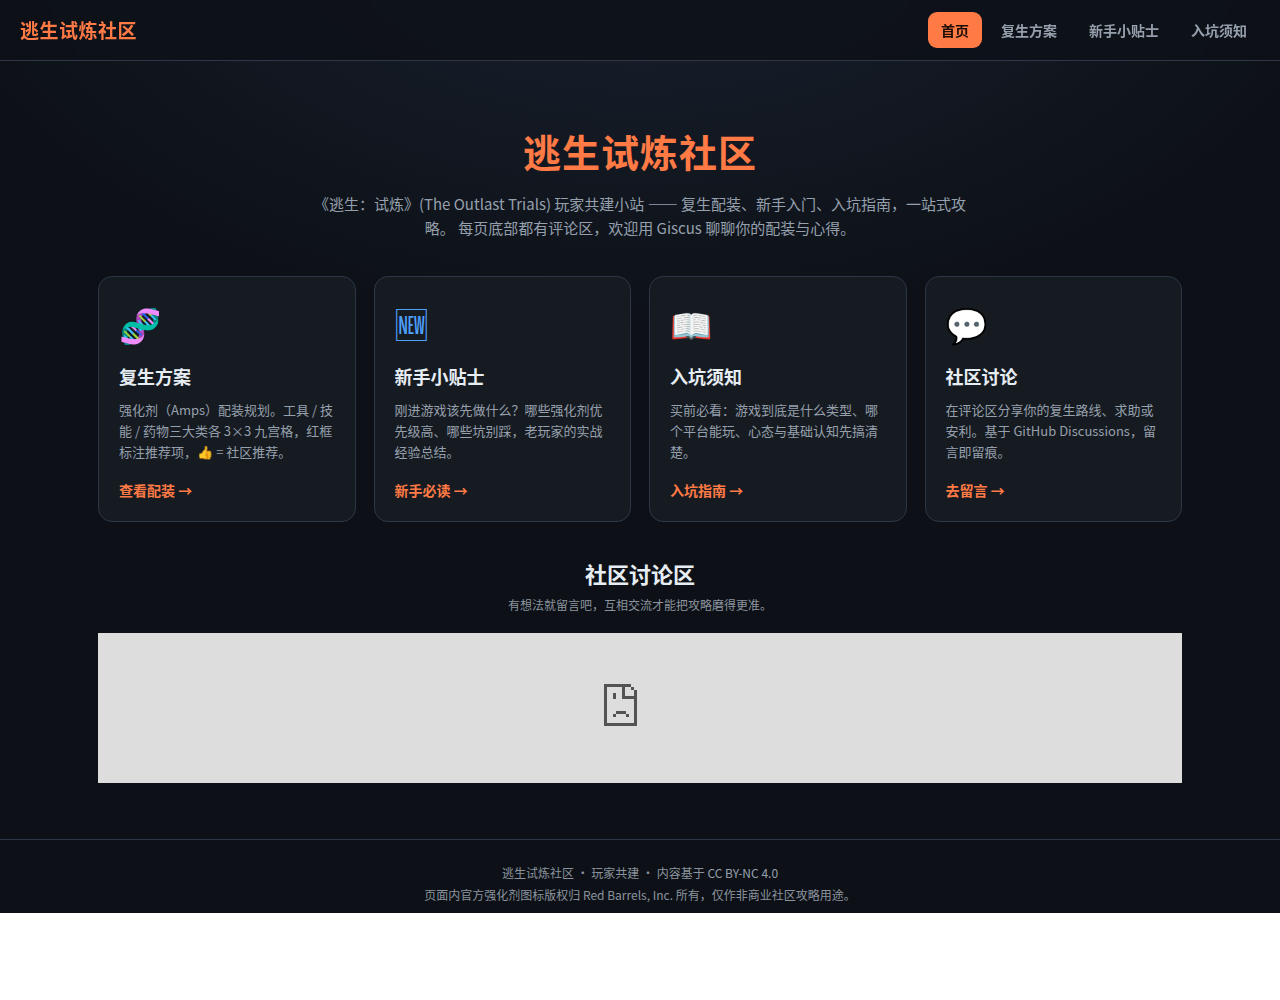
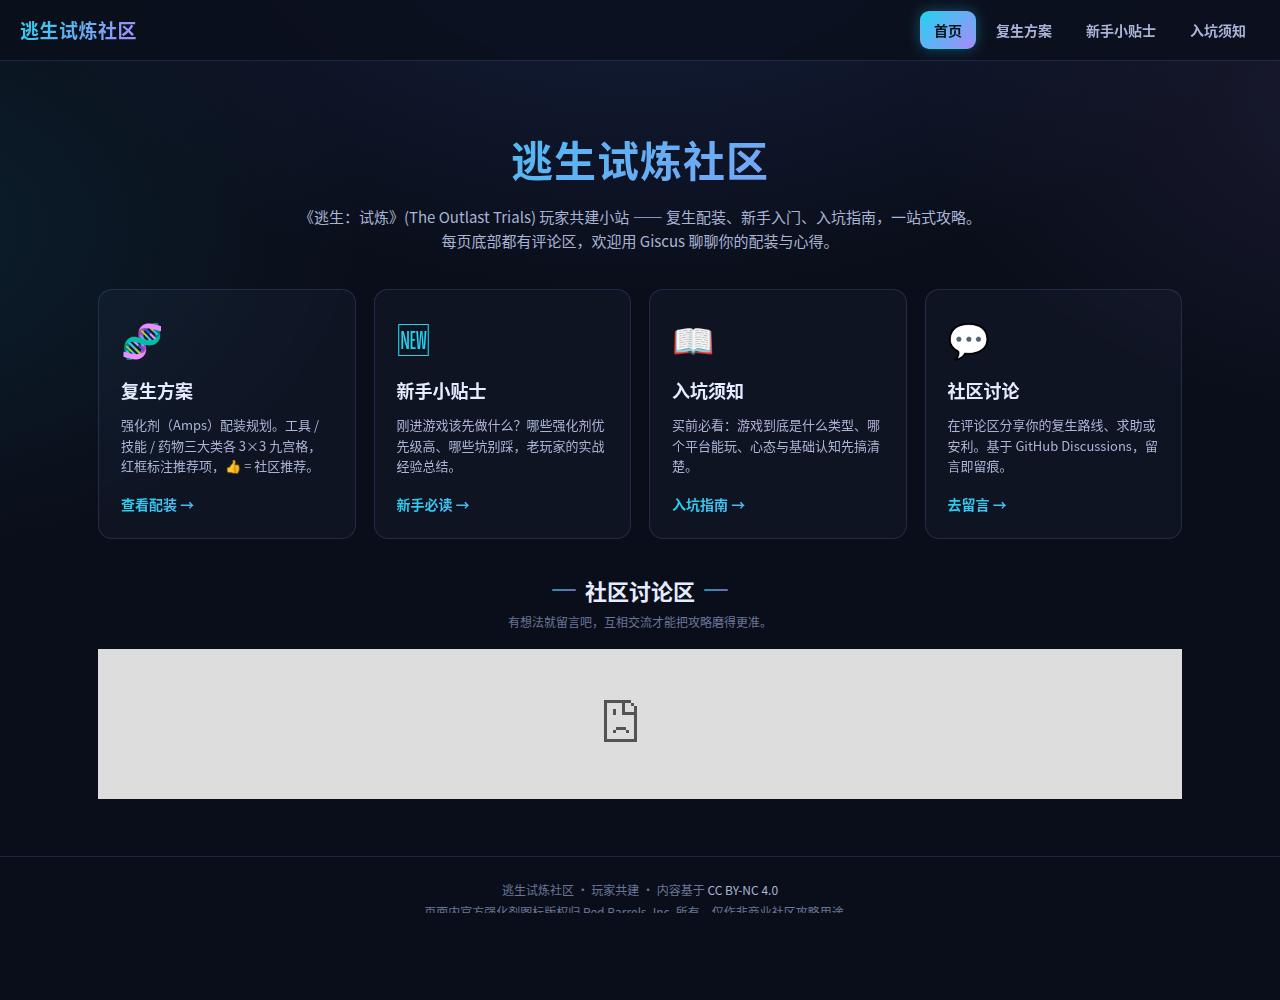
feat: 全面玻璃拟态化 + README 贴链接 + 每页增加 GitHub 编辑入口
- 重写 style.css，参照 dl-viz-lab 的玻璃拟态/青紫渐变设计：
  半透明面板、背景模糊、悬停辉光、渐变标题与按钮
- README 顶部直接贴上网址 https://lokeily.github.io/outlast-trials-community/
- 四个页面页脚统一新增「✏️ 在 GitHub 上编辑此页」深链
- 更新 preview.png 为新风格首页截图

diff --git a/assets/css/style.css b/assets/css/style.css
@@ -1,17 +1,18 @@
-/* ===== 逃生试炼社区 · 共享样式 ===== */
+/* ===== 逃生试炼社区 · 共享样式（玻璃拟态 / 青紫渐变） ===== */
 :root{
-  --bg:#0d1117;
-  --bg-soft:#161b22;
-  --bg-card:#1a2230;
-  --border:#2d3748;
-  --border-soft:#252d3a;
-  --text:#e6edf3;
-  --text-dim:#96a0ad;
-  --text-mute:#8b949e;
-  --accent:#ff7a45;      /* 主橙 */
-  --accent-2:#4ea1ff;    /* 蓝 */
+  --bg:#0a0e1a;
+  --panel:rgba(148,163,255,.045);      /* 玻璃面板底 */
+  --panel-2:rgba(15,23,42,.55);
+  --border:rgba(148,163,255,.16);
+  --border-soft:rgba(148,163,255,.10);
+  --text:#e6ecff;
+  --text-dim:#aab4d4;
+  --text-mute:#6b7699;
+  --cyan:#22d3ee;
+  --violet:#a78bfa;
+  --accent-grad:linear-gradient(135deg,var(--cyan),var(--violet));
+  --red:#ff3b30;                        /* 选中等高亮（游戏化） */
   --green:#3fb950;
-  --red:#ff3b30;
   --gold:#f0b429;
   --radius:14px;
   --maxw:1120px;
@@ -19,81 +20,95 @@
 }
 
 *{box-sizing:border-box;margin:0;padding:0}
-html{-webkit-text-size-adjust:100%}
+html{-webkit-text-size-adjust:100%;scroll-behavior:smooth}
 body{
-  background:var(--bg);
-  background:radial-gradient(1200px 700px at 50% -10%,#1a2230 0%,#0d1117 60%);
-  background-attachment:fixed;
+  min-height:100vh;
   color:var(--text);
-  font-family:"Noto Sans CJK SC","PingFang SC","Microsoft YaHei",sans-serif;
+  font-family:"Noto Sans CJK SC","PingFang SC","Microsoft YaHei",-apple-system,BlinkMacSystemFont,"Segoe UI",Roboto,sans-serif;
   line-height:1.6;
+  background:
+    radial-gradient(1100px 680px at 50% -12%,#16213f 0%,rgba(22,33,63,0) 60%),
+    radial-gradient(900px 600px at 110% 10%,rgba(167,139,250,.10) 0%,rgba(167,139,250,0) 55%),
+    radial-gradient(900px 600px at -10% 25%,rgba(34,211,238,.09) 0%,rgba(34,211,238,0) 55%),
+    var(--bg);
+  background-attachment:fixed;
   padding-bottom:40px;
 }
-a{color:var(--accent-2);text-decoration:none}
-a:hover{text-decoration:underline}
+a{color:var(--cyan);text-decoration:none;transition:color .15s}
+a:hover{text-decoration:none;color:#7fe9f5}
 img{max-width:100%}
+::selection{background:rgba(34,211,238,.3);color:#fff}
 
-/* ===== 顶部导航 ===== */
+/* ===== 顶部导航（玻璃栏） ===== */
 .site-nav{
   position:sticky;top:0;z-index:50;
   display:flex;align-items:center;justify-content:space-between;flex-wrap:wrap;gap:10px;
-  padding:12px 20px;
-  background:rgba(13,17,23,.85);
-  backdrop-filter:blur(10px);
+  padding:11px 20px;
+  background:rgba(10,14,26,.72);
+  backdrop-filter:blur(12px);-webkit-backdrop-filter:blur(12px);
   border-bottom:1px solid var(--border);
 }
 .brand{
-  font-weight:800;font-size:19px;color:var(--accent);
-  letter-spacing:.5px;white-space:nowrap;
+  font-weight:800;font-size:19px;letter-spacing:.5px;white-space:nowrap;
+  background:var(--accent-grad);-webkit-background-clip:text;background-clip:text;color:transparent;
 }
-.brand:hover{text-decoration:none;filter:brightness(1.1)}
+.brand:hover{filter:brightness(1.12)}
 .nav-links{display:flex;flex-wrap:wrap;gap:6px}
 .nav-links a{
   color:var(--text-dim);font-size:14px;font-weight:600;
-  padding:7px 13px;border-radius:9px;transition:.15s;
+  padding:7px 13px;border-radius:9px;border:1px solid transparent;transition:.15s;
 }
-.nav-links a:hover{background:var(--bg-soft);color:var(--text);text-decoration:none}
-.nav-links a.active{background:var(--accent);color:#1a0d05}
+.nav-links a:hover{color:var(--text);background:var(--panel);border-color:var(--border-soft)}
+.nav-links a.active{color:#06121a;background:var(--accent-grad);border-color:transparent;box-shadow:0 0 14px rgba(34,211,238,.35)}
 
-/* ===== 通用容器 ===== */
+/* ===== 容器 / 标题 ===== */
 .container{max-width:var(--maxw);margin:0 auto;padding:0 18px}
- main{padding:26px 0}
+main{padding:30px 0}
 section{margin-top:30px}
 
-/* ===== 标题 ===== */
-.title{text-align:center;font-weight:800;font-size:30px;color:var(--accent);letter-spacing:1px}
+.title{
+  text-align:center;font-weight:800;font-size:30px;letter-spacing:1px;
+  background:var(--accent-grad);-webkit-background-clip:text;background-clip:text;color:transparent;
+}
 .sub{text-align:center;font-size:13px;color:var(--text-mute);margin-top:6px}
-.divider{height:2px;background:var(--border);margin:18px auto;max-width:var(--maxw)}
-.sectitle{text-align:center;font-weight:800;font-size:22px;margin:8px 0 4px}
+.divider{height:1px;background:linear-gradient(90deg,transparent,var(--border),transparent);margin:18px auto;max-width:var(--maxw)}
+.sectitle{
+  display:flex;align-items:center;justify-content:center;gap:9px;
+  font-weight:800;font-size:22px;margin:8px 0 4px;color:var(--text);
+}
+.sectitle::before,.sectitle::after{content:"";width:24px;height:2px;border-radius:2px;background:var(--accent-grad);opacity:.7}
 .secsub{text-align:center;font-size:12px;color:var(--text-mute);margin-bottom:18px}
 
 /* ===== 社区首页 hero / 卡片 ===== */
-.hero{text-align:center;padding:30px 18px 10px}
-.hero h1{font-size:38px;font-weight:800;color:var(--accent);letter-spacing:1px}
-.hero p{color:var(--text-dim);font-size:15px;margin-top:10px;max-width:680px;margin-left:auto;margin-right:auto}
+.hero{text-align:center;padding:34px 18px 8px}
+.hero h1{
+  font-size:42px;font-weight:800;letter-spacing:1px;
+  background:var(--accent-grad);-webkit-background-clip:text;background-clip:text;color:transparent;
+}
+.hero p{color:var(--text-dim);font-size:15px;margin-top:12px;max-width:700px;margin-left:auto;margin-right:auto}
 .cards{
-  display:grid;gap:18px;margin-top:26px;
+  display:grid;gap:18px;margin-top:28px;
   grid-template-columns:repeat(auto-fit,minmax(240px,1fr));
 }
 .card{
   display:flex;flex-direction:column;gap:10px;
-  background:var(--bg-soft);border:1px solid var(--border);
-  border-radius:var(--radius);padding:20px;transition:.18s;
+  background:var(--panel);border:1px solid var(--border);border-radius:var(--radius);
+  padding:22px;transition:.2s;backdrop-filter:blur(6px);-webkit-backdrop-filter:blur(6px);
 }
-.card:hover{transform:translateY(-4px);border-color:var(--accent);box-shadow:0 10px 30px rgba(0,0,0,.35)}
+.card:hover{transform:translateY(-5px);border-color:rgba(34,211,238,.5);box-shadow:0 14px 36px rgba(34,211,238,.14)}
 .card .ico{font-size:34px}
 .card h3{font-size:18px;color:var(--text)}
 .card p{font-size:13px;color:var(--text-dim);flex:1}
-.card .go{margin-top:6px;font-weight:700;color:var(--accent);font-size:14px}
+.card .go{margin-top:6px;font-weight:700;font-size:14px;background:var(--accent-grad);-webkit-background-clip:text;background-clip:text;color:transparent}
 .card:hover .go{text-decoration:underline}
 
 /* ===== 复生方案：总览 ===== */
 .ovcols{display:flex;gap:24px;justify-content:center;align-items:flex-start;flex-wrap:wrap}
-.col{width:340px;max-width:100%;background:var(--bg-soft);border:1px solid var(--border);border-radius:var(--radius);padding:14px}
-.cat{font-weight:700;font-size:14px;color:#cdd6e0;text-align:center;margin-bottom:8px}
+.col{width:340px;max-width:100%;background:var(--panel);border:1px solid var(--border);border-radius:var(--radius);padding:14px;backdrop-filter:blur(6px);-webkit-backdrop-filter:blur(6px)}
+.cat{font-weight:700;font-size:14px;color:var(--text-dim);text-align:center;margin-bottom:8px;letter-spacing:.05em}
 .ribbon{width:100%;height:auto;display:block;border-radius:8px;margin-bottom:6px}
-.item{position:relative;display:flex;align-items:center;gap:14px;margin-top:12px;background:var(--bg-card);border:1px solid var(--accent-2);border-radius:11px;padding:12px 14px;min-height:84px}
-.item.ok{background:#233c2c;border-color:var(--green)}
+.item{position:relative;display:flex;align-items:center;gap:14px;margin-top:12px;background:var(--panel-2);border:1px solid var(--cyan);border-radius:11px;padding:12px 14px;min-height:84px}
+.item.ok{background:rgba(63,185,80,.10);border-color:var(--green)}
 .ic{width:56px;height:56px;flex:0 0 56px;object-fit:contain}
 .meta{display:flex;flex-direction:column;justify-content:center}
 .iname{font-weight:700;font-size:21px;color:var(--text)}
@@ -101,64 +116,65 @@ section{margin-top:30px}
 .isub{font-size:12px;color:var(--text-dim);margin-top:3px}
 .badge{position:absolute;top:8px;right:8px;font-size:11px;font-weight:700;padding:2px 9px;border-radius:7px}
 .badge.ok{background:var(--green);color:#06210d}
-.badge.pick{background:var(--accent-2);color:#04223f}
+.badge.pick{background:var(--cyan);color:#06121a}
 .thumb{position:absolute;bottom:-2px;right:-2px;font-size:20px;z-index:5;filter:drop-shadow(0 1px 3px rgba(0,0,0,.6));transform:rotate(-15deg)}
 
 /* ===== 复生方案：九宫格 ===== */
 .boards{display:flex;gap:22px;justify-content:center;align-items:flex-start;flex-wrap:wrap}
-.gridwrap{width:348px;max-width:100%;background:var(--bg-soft);border:1px solid var(--border);border-radius:var(--radius);padding:14px}
+.gridwrap{width:348px;max-width:100%;background:var(--panel);border:1px solid var(--border);border-radius:var(--radius);padding:14px;backdrop-filter:blur(6px);-webkit-backdrop-filter:blur(6px)}
 .ghead{display:flex;align-items:center;gap:10px;margin-bottom:12px}
 .ghead .ribbon{width:150px}
-.ghead span{font-weight:700;font-size:15px;color:#cdd6e0}
+.ghead span{font-weight:700;font-size:15px;color:var(--text-dim)}
 .grid{display:grid;grid-template-columns:repeat(3,1fr);gap:9px}
-.cell{position:relative;background:#11161d;border:1px solid #2b3442;border-radius:10px;padding:9px 4px 7px;display:flex;flex-direction:column;align-items:center}
+.cell{position:relative;background:rgba(8,12,24,.6);border:1px solid var(--border-soft);border-radius:10px;padding:9px 4px 7px;display:flex;flex-direction:column;align-items:center;transition:.15s}
+.cell:hover{border-color:rgba(34,211,238,.4)}
 .cell .ic{width:58px;height:58px;object-fit:contain}
 .cell .cn{font-size:13px;font-weight:700;color:#dfe6ee;margin-top:5px;text-align:center}
 .cell .en{font-size:9.5px;color:#7c8694;margin-top:1px;text-align:center}
-.cell.pick{border:3px solid var(--red);box-shadow:0 0 0 2px rgba(255,59,48,.35),0 0 14px rgba(255,59,48,.45);background:#241317}
+.cell.pick{border:2px solid var(--red);box-shadow:0 0 0 2px rgba(255,59,48,.35),0 0 16px rgba(255,59,48,.45);background:rgba(255,59,48,.10)}
 .cell.pick .cn{color:#ff6b60}
 .tag{position:absolute;top:-9px;left:-9px;background:var(--red);color:#fff;font-size:10px;font-weight:700;padding:2px 7px;border-radius:7px;white-space:nowrap}
 
 /* ===== 说明卡片 / 小贴士 ===== */
 .anns{max-width:1100px;margin:26px auto 0;display:grid;grid-template-columns:repeat(3,1fr);gap:16px}
-.ncard{background:var(--bg-soft);border:1px solid var(--border);border-radius:12px;padding:14px 16px}
+.ncard{background:var(--panel);border:1px solid var(--border);border-radius:12px;padding:14px 16px;backdrop-filter:blur(6px);-webkit-backdrop-filter:blur(6px)}
 .ntitle{font-weight:700;font-size:15px;margin-bottom:8px;color:var(--text)}
 .nlist{list-style:none}
-.nlist li{font-size:12.5px;color:#c3ccd6;line-height:1.6;margin-bottom:7px}
+.nlist li{font-size:12.5px;color:var(--text-dim);line-height:1.6;margin-bottom:7px}
 .nlist b{color:var(--text)}
-.tips{max-width:1100px;margin:28px auto 0;background:var(--bg-soft);border:1px solid var(--border);border-radius:var(--radius);padding:16px 20px;border-top:3px solid var(--gold)}
+.tips{max-width:1100px;margin:28px auto 0;background:var(--panel);border:1px solid var(--border);border-radius:var(--radius);padding:16px 20px;border-top:3px solid var(--gold);backdrop-filter:blur(6px);-webkit-backdrop-filter:blur(6px)}
 .tipstitle{font-weight:700;font-size:17px;color:var(--gold);text-align:center;margin-bottom:14px}
 .tipgrid{display:grid;grid-template-columns:repeat(2,1fr);gap:10px}
-.tip{background:#12181f;border:1px solid var(--border-soft);border-radius:10px;padding:10px 12px;font-size:12.5px;color:#b8c4d0;line-height:1.55;display:flex;align-items:flex-start;gap:8px}
+.tip{background:var(--panel-2);border:1px solid var(--border-soft);border-radius:10px;padding:10px 12px;font-size:12.5px;color:var(--text-dim);line-height:1.55;display:flex;align-items:flex-start;gap:8px}
 .tip .dot{color:var(--gold);font-weight:800;line-height:1.4}
 
-/* ===== 通用文章页（新手/入坑） ===== */
+/* ===== 通用文章页（新手 / 入坑） ===== */
 .article{max-width:820px;margin:0 auto}
-.article h2{font-size:20px;color:var(--accent);margin:24px 0 10px;border-left:4px solid var(--accent);padding-left:10px}
+.article h2{font-size:20px;color:var(--cyan);margin:24px 0 10px;border-left:4px solid var(--cyan);padding-left:10px}
 .article h3{font-size:16px;color:var(--text);margin:18px 0 6px}
-.article p,.article li{font-size:14px;color:#c3ccd6}
+.article p,.article li{font-size:14px;color:var(--text-dim)}
 .article ul,.article ol{padding-left:22px;margin:8px 0}
 .article li{margin-bottom:7px}
-.article .lead{font-size:15px;color:var(--text-dim);background:var(--bg-soft);border:1px solid var(--border);border-radius:12px;padding:14px 16px;margin:14px 0}
-.callout{border-left:4px solid var(--gold);background:#1c1810;border-radius:0 10px 10px 0;padding:12px 16px;margin:14px 0;font-size:13.5px;color:#e8d9b5}
-.callout.info{border-color:var(--accent-2);background:#0f1a26;color:#cfe3ff}
+.article .lead{font-size:15px;color:var(--text-dim);background:var(--panel);border:1px solid var(--border);border-radius:12px;padding:14px 16px;margin:14px 0;backdrop-filter:blur(6px);-webkit-backdrop-filter:blur(6px)}
+.callout{border-left:4px solid var(--gold);background:rgba(240,180,41,.08);border-radius:0 10px 10px 0;padding:12px 16px;margin:14px 0;font-size:13.5px;color:#e8d9b5}
+.callout.info{border-color:var(--cyan);background:rgba(34,211,238,.07);color:#cfeef5}
 
-/* ===== Giscus / 页脚 ===== */
+/* ===== Giscus / 页脚 / 编辑链接 ===== */
 #giscus-comments{margin-top:34px;min-height:120px}
-.site-foot{margin-top:50px;border-top:1px solid var(--border);padding:22px 18px;text-align:center;color:var(--text-mute);font-size:12px;line-height:1.8}
+.site-foot{margin-top:50px;border-top:1px solid var(--border);padding:22px 18px;text-align:center;color:var(--text-mute);font-size:12px;line-height:1.9}
 .site-foot a{color:var(--text-dim)}
-
-/* ===== 复生方案页专用 ===== */
-.contrib{max-width:1100px;margin:0 auto 16px;text-align:center;font-size:13px;color:var(--text-dim);background:var(--bg-soft);border:1px solid var(--border);border-radius:10px;padding:10px 14px}
+.edit-link{display:inline-flex;align-items:center;gap:5px;margin-top:6px;font-size:12px;color:var(--text-dim);border:1px solid var(--border);border-radius:8px;padding:4px 10px;transition:.15s}
+.edit-link:hover{color:var(--cyan);border-color:rgba(34,211,238,.5);background:var(--panel)}
+.contrib{max-width:1100px;margin:0 auto 16px;text-align:center;font-size:13px;color:var(--text-dim);background:var(--panel);border:1px solid var(--border);border-radius:10px;padding:10px 14px;backdrop-filter:blur(6px);-webkit-backdrop-filter:blur(6px)}
 .contrib a{font-weight:700}
 .legend{max-width:1100px;margin:18px auto 0;text-align:center;font-size:13px;color:var(--text-dim)}
-.legend b{color:var(--accent)}
+.legend b{background:var(--accent-grad);-webkit-background-clip:text;background-clip:text;color:transparent}
 
 /* ===== 响应式 ===== */
 @media (max-width:900px){
   .anns{grid-template-columns:1fr}
   .tipgrid{grid-template-columns:1fr}
-  .hero h1{font-size:30px}
+  .hero h1{font-size:32px}
 }
 @media (max-width:640px){
   body{padding-bottom:24px}
@@ -167,7 +183,7 @@ section{margin-top:30px}
   .nav-links{justify-content:center;width:100%}
   .nav-links a{padding:6px 10px;font-size:13px}
   .title{font-size:24px}
-  .hero h1{font-size:26px}
+  .hero h1{font-size:27px}
   .col,.gridwrap{width:100%}
   .grid{gap:6px}
   .cell .ic{width:46px;height:46px}

diff --git a/getting-started.html b/getting-started.html
@@ -90,6 +90,7 @@
 <footer class="site-foot">
   <p>逃生试炼社区 · 玩家共建 · 内容基于 <a href="LICENSE">CC BY-NC 4.0</a></p>
   <p>页面内官方强化剂图标版权归 Red Barrels, Inc. 所有，仅作非商业社区攻略用途。</p>
+  <a class="edit-link" href="https://github.com/Lokeily/outlast-trials-community/edit/main/getting-started.html" target="_blank" rel="noopener">✏️ 在 GitHub 上编辑此页</a>
 </footer>
 </body>
 </html>

diff --git a/index.html b/index.html
@@ -75,6 +75,7 @@
 <footer class="site-foot">
   <p>逃生试炼社区 · 玩家共建 · 内容基于 <a href="LICENSE">CC BY-NC 4.0</a></p>
   <p>页面内官方强化剂图标版权归 Red Barrels, Inc. 所有，仅作非商业社区攻略用途。</p>
+  <a class="edit-link" href="https://github.com/Lokeily/outlast-trials-community/edit/main/index.html" target="_blank" rel="noopener">✏️ 在 GitHub 上编辑此页</a>
 </footer>
 </body>
 </html>

diff --git a/newbie.html b/newbie.html
@@ -81,6 +81,7 @@
 <footer class="site-foot">
   <p>逃生试炼社区 · 玩家共建 · 内容基于 <a href="LICENSE">CC BY-NC 4.0</a></p>
   <p>页面内官方强化剂图标版权归 Red Barrels, Inc. 所有，仅作非商业社区攻略用途。</p>
+  <a class="edit-link" href="https://github.com/Lokeily/outlast-trials-community/edit/main/newbie.html" target="_blank" rel="noopener">✏️ 在 GitHub 上编辑此页</a>
 </footer>
 </body>
 </html>

diff --git a/rebirth.html b/rebirth.html
@@ -112,5 +112,6 @@
 <footer class="site-foot">
   <p>逃生试炼社区 · 玩家共建 · 内容基于 <a href="LICENSE">CC BY-NC 4.0</a></p>
   <p>页面内官方强化剂图标版权归 Red Barrels, Inc. 所有，仅作非商业社区攻略用途。</p>
+  <a class="edit-link" href="https://github.com/Lokeily/outlast-trials-community/edit/main/rebirth.html" target="_blank" rel="noopener">✏️ 在 GitHub 上编辑此页</a>
 </footer>
 </body></html>

diff --git a/README.md b/README.md
@@ -2,6 +2,8 @@
 
 《逃生：试炼》(The Outlast Trials) 玩家共建小站，**由社区共同维护**。
 
+🌐 **在线访问：** https://lokeily.github.io/outlast-trials-community/
+
 ![社区首页预览](preview.png)
 
 | 页面 | 文件 | 说明 |
@@ -16,6 +18,7 @@
 - 响应式布局，适配 PC、平板、手机
 - 图标外链至 `assets/icons/`（浏览器可缓存，跨页复用），不再内嵌 base64
 - 每页底部都有 **Giscus 评论区**（基于 GitHub Discussions），可评论、分享配装与心得
+- 每页页脚都有 **「✏️ 在 GitHub 上编辑此页」** 按钮，点一下即可直接修改并提交 PR
 
 ## 本地预览
 